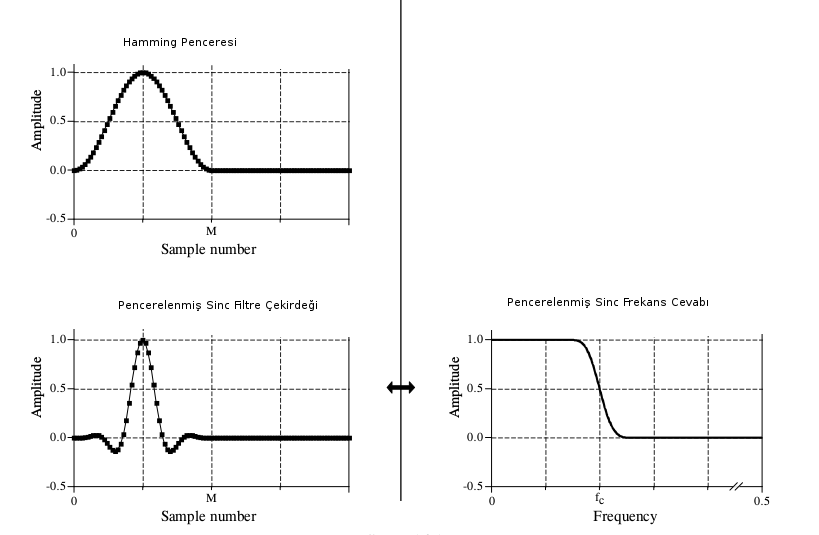
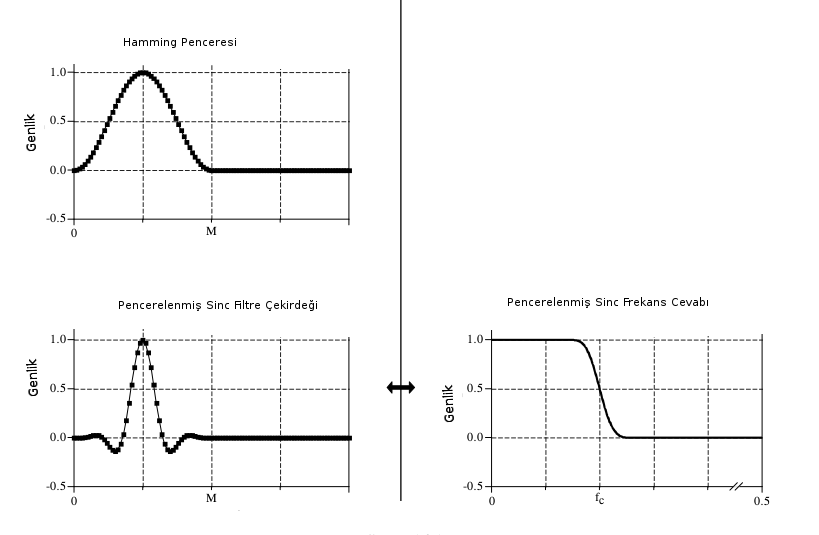
-

diff --git a/compscieng/compscieng_1_32/filt.py b/compscieng/compscieng_1_32/filt.py
@@ -58,12 +58,12 @@ def sinc_filter_band(order, fc1, fc2, fs):
     return output
 
 def plotSpectrum(y,Fs):
-    n = len(y) # length of the signal
+    n = len(y) # sinyal uzunlugu
     k = np.arange(n)
     T = n/Fs
-    frq = k/T # two sides frequency range
-    frq = frq[range(n/2)] # one side frequency range
-    Y = scipy.fft(y)/n # fft computing and normalization
+    frq = k/T # frekansin her iki kismi
+    frq = frq[range(n/2)] # frekansin tek tarafi
+    Y = scipy.fft(y)/n # fft hesaplamak ve normalizasyon
     Y = Y[range(n/2)] 
-    plt.plot(frq,np.abs(Y),'r') # plotting the spectrum
+    plt.plot(frq,np.abs(Y),'r') # spektrumu grafiklemek
     
